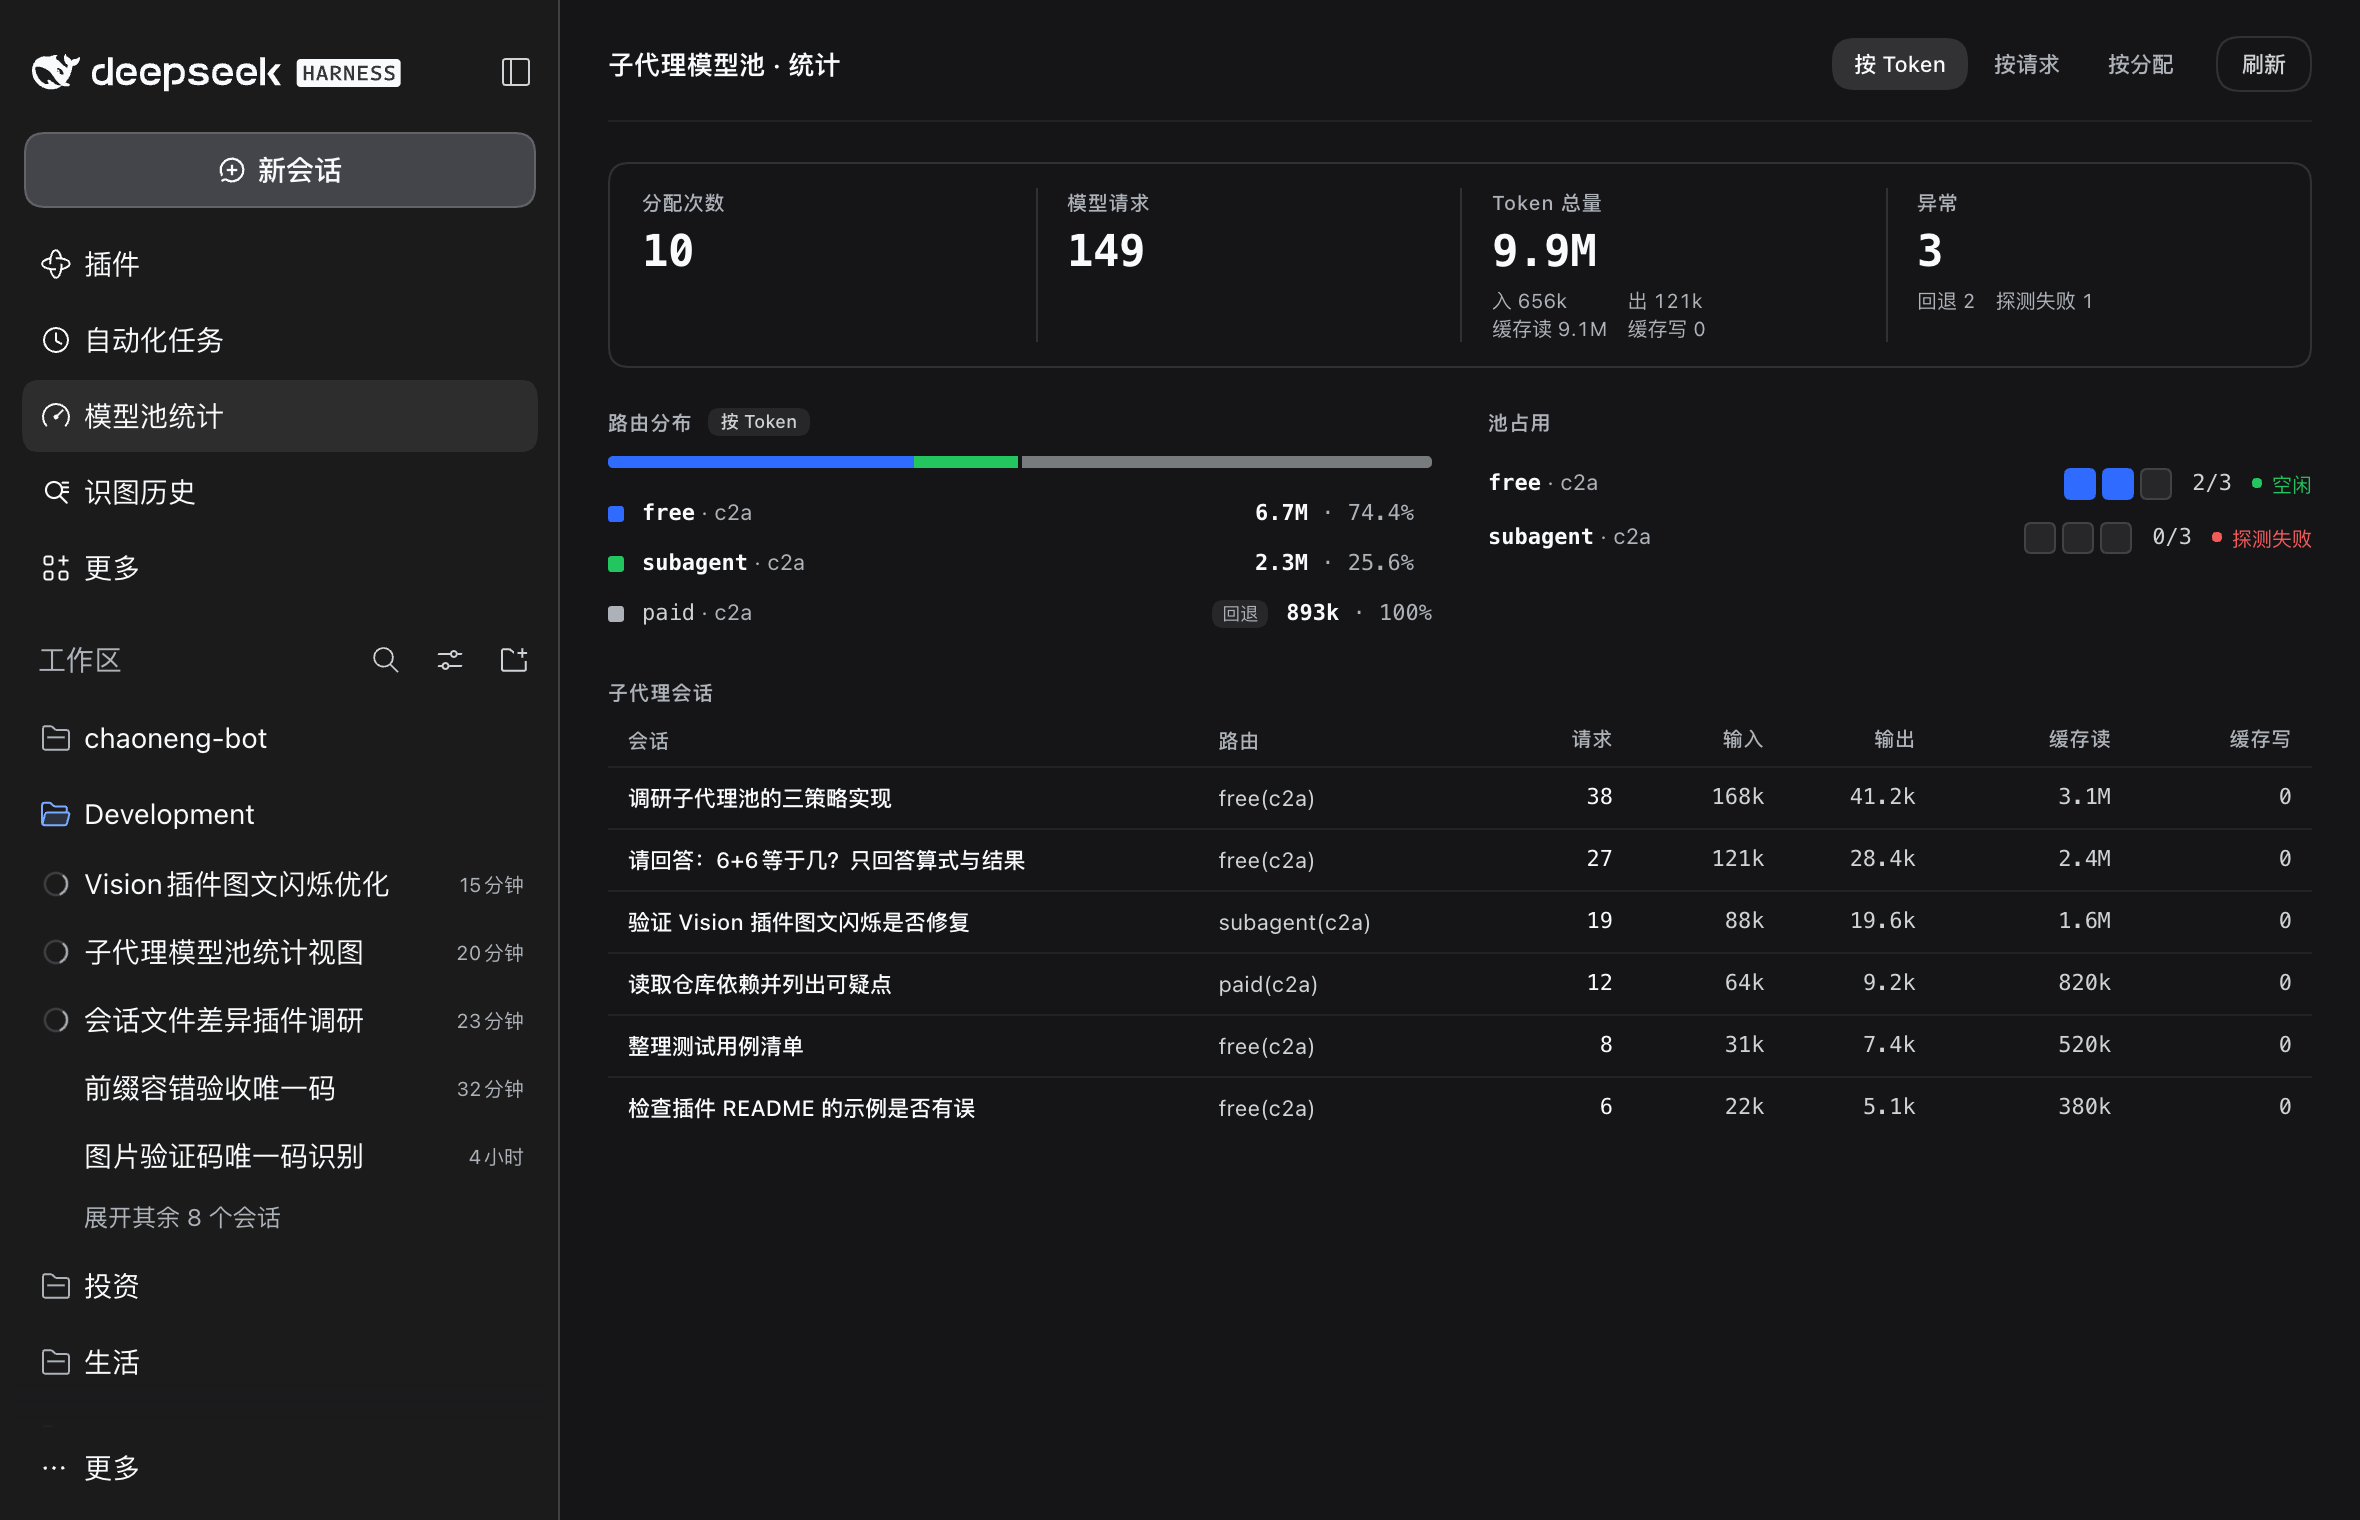
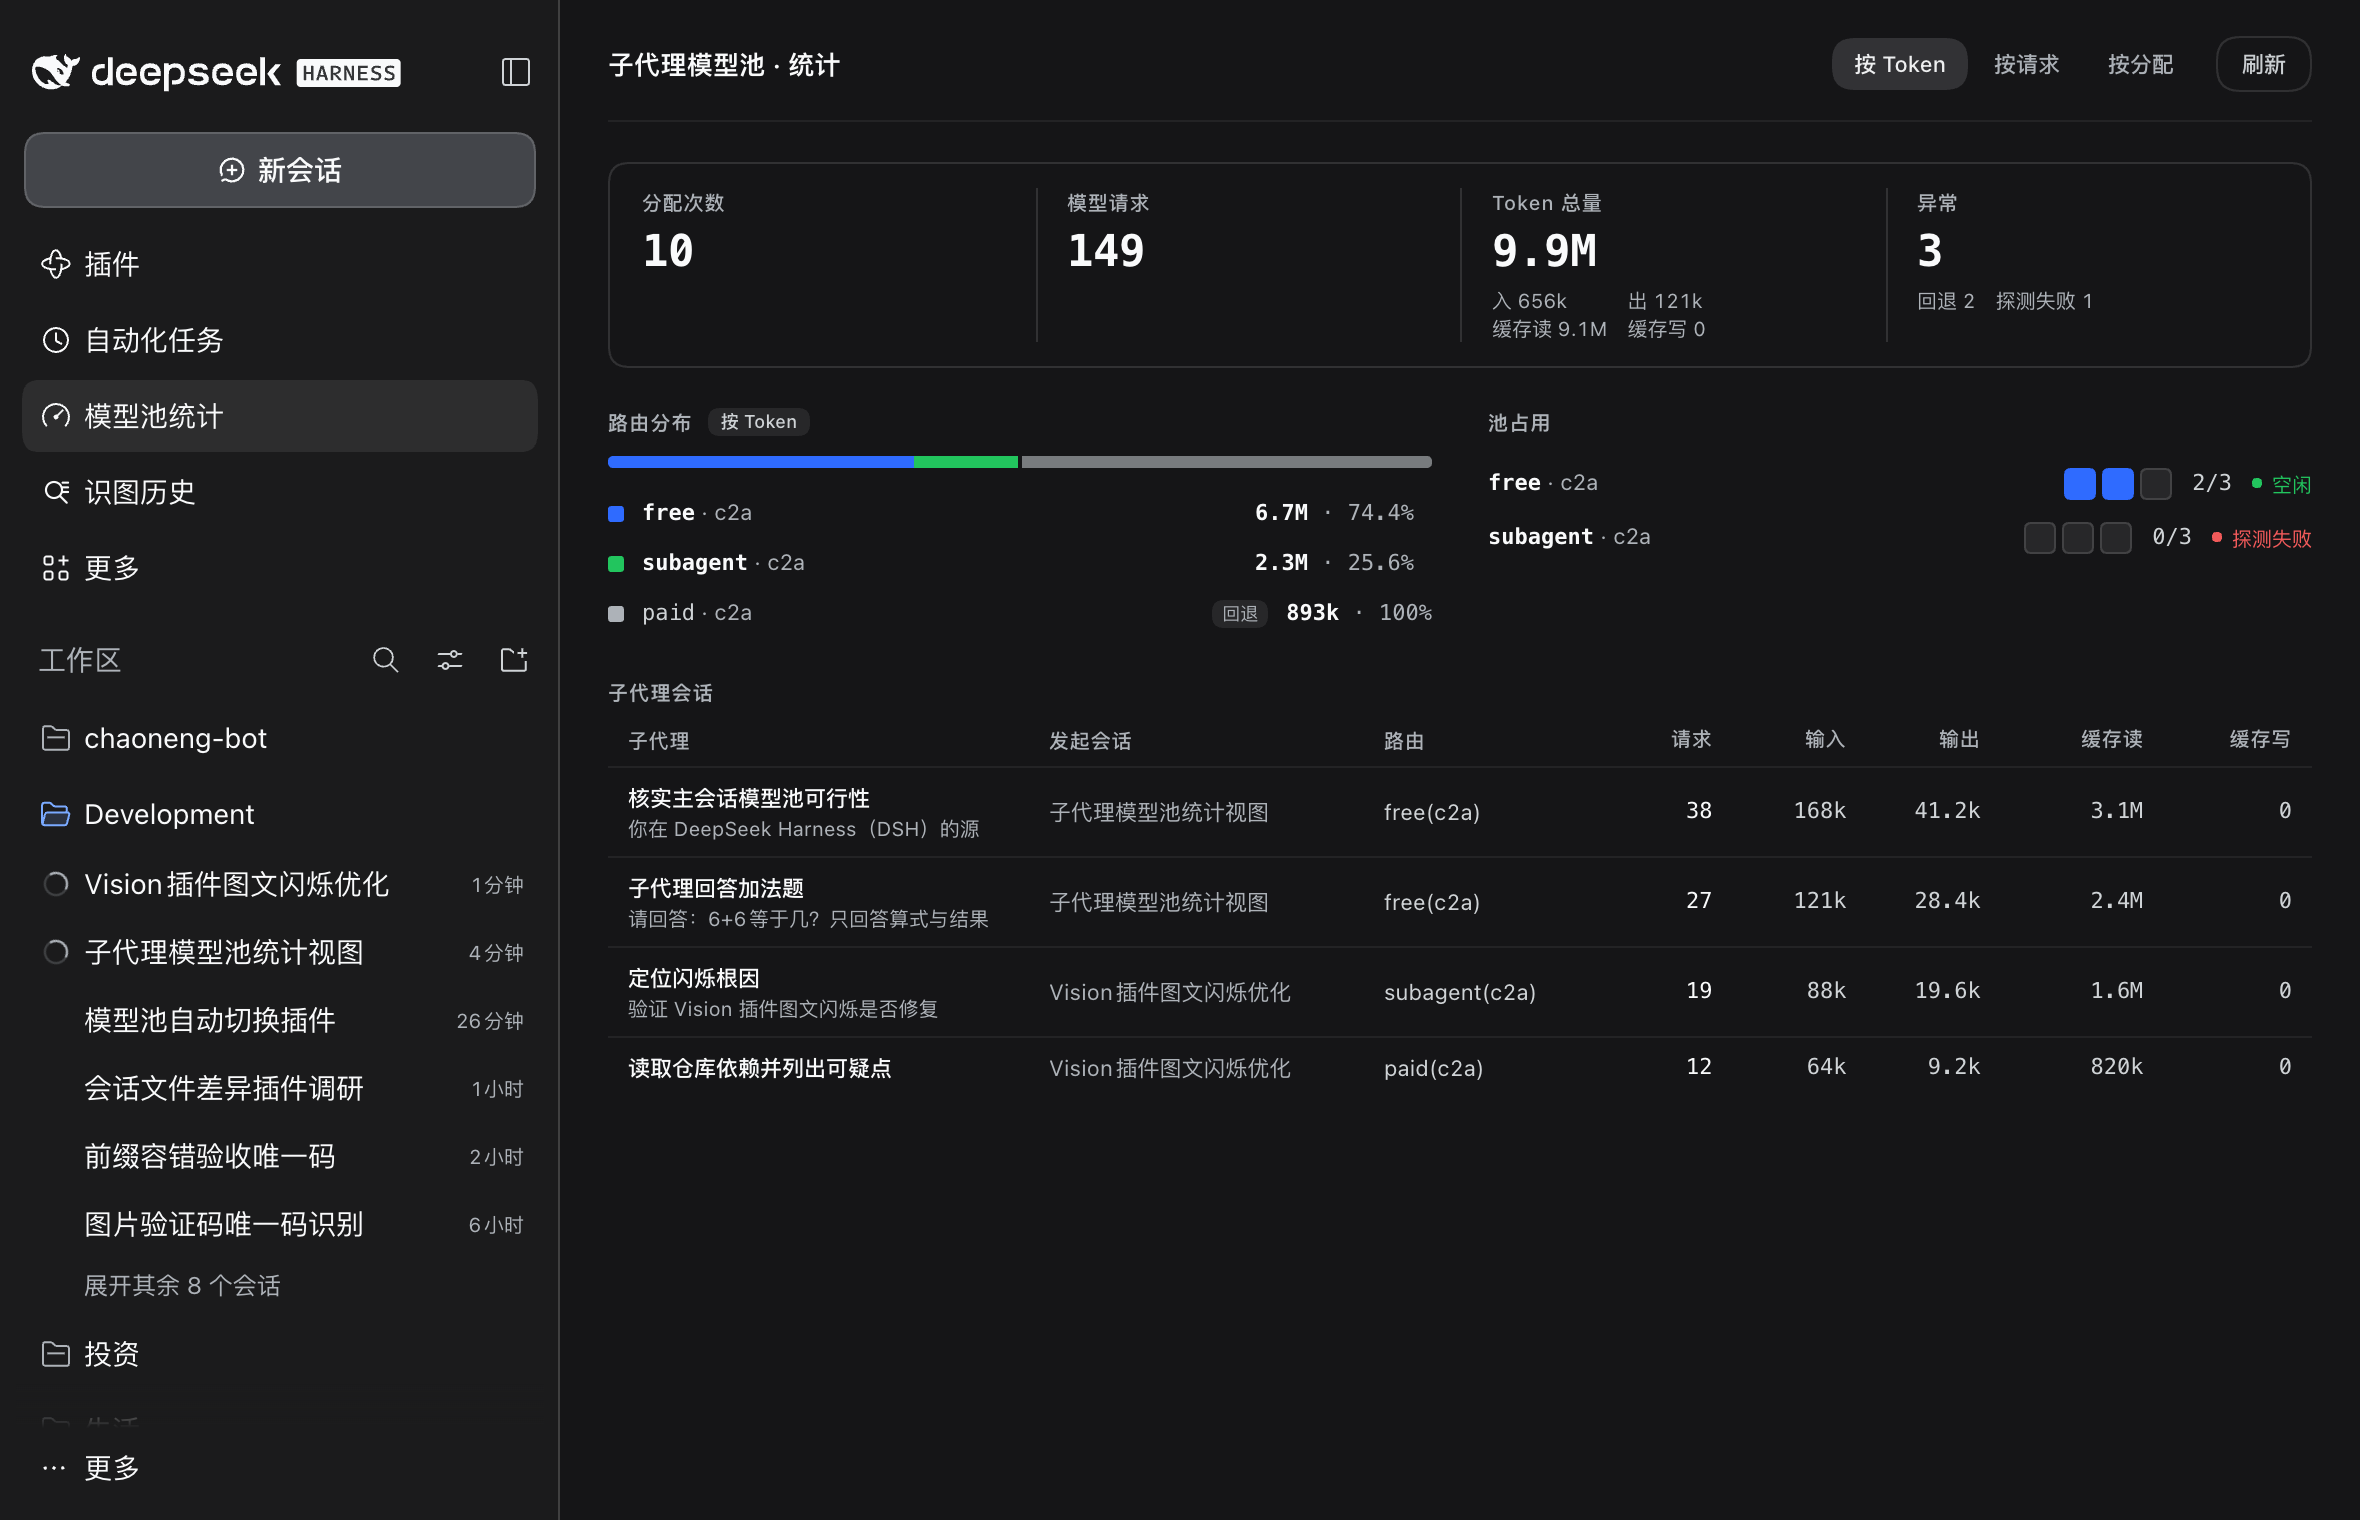
fix: 子代理名字用 subagent/catalog 的 label，不是提示词截断
之前会话列表显示「你在 DeepSeek Harness（DSH）的源」这种残句，
看着像标题其实是任务提示词被截断了。

根因查清楚了，两条：

1) DSH 的子代理永远拿不到 LLM 标题。标题提供方
   `session-title-first-prompt-llm` 的 README 写明「自动生成只对无父会话、
   也无先前标题的全新会话运行」，子代理有 parentSession，所以只能停在
   fallback —— 从首条用户消息取开头 8 词 / 96 字节。实测该会话的
   session/title 事件只有一条且 source.kind="fallback"，没有后续 provider
   覆盖；对照组主会话有两条，第二条 source.kind="provider"（c2a/paid 生成）。

2) 真正该用的名字在 `subagent/catalog` 事件里。父会话派发子代理时记一条：
   {"childId":"2e107042-...","label":"核实主会话模型池可行性"}，label 就是
   调用方调 subagent 时给的 description。DSH 自己的子代理下拉
   （顶部「N 个子智能体」）显示的就是它（dsh-client-ui-subagent 里
   `const label = entry.label ?? entry.id`）。

改动：
- index.js：监听 `subagent/catalog`，把 label 按 childId 记进账本。
- lib/stats.js：新增 #sessionLabels + rememberLabel/labelOfSession，
  快照里输出 `label`。
- client.js：显示名优先级改为 label > title > sessionId；有 label 时
  title 退成副标题（保留提示词上下文），没 label 时不显示副标题。
  组内排序也改用 label ?? title，和表格里看到的一致。表头「子代理会话」→「子代理」。

实测（mock 4 条会话，其中 1 条无 label）：
- 有 label 的显示「核实主会话模型池可行性 / 副标题：你在 DeepSeek Harness
  （DSH）的源」；无 label 的退回 title，不显示副标题。
- 排序：核实 → 子代理回答加法题 → 定位闪烁根因 → 读取仓库依赖（按显示名）。
- 5 个数值列与表头右边缘对齐 maxDiff 全 0；桌面页面 760px 填满不滚动。
- 手机 375×812：副标题 display:block，页面可滚动（scrollH 1415 > clientH 807）。
- 测试 130 项全绿（新增 3 项：label 优先于 title、无 label 时为 undefined、
  空 label/空 childId 不记）。

diff --git a/client.js b/client.js
@@ -879,6 +879,7 @@
         ".smpv-sessionTitle{display:block;overflow:hidden;text-overflow:ellipsis;white-space:nowrap;font-weight:500}",
         // 发起会话：降一档字色——它是上下文，不是主角。
         ".smpv-parentTitle .smpv-sessionTitle{font-weight:400;color:var(--dsw-alias-label-tertiary)}",
+        ".smpv-sessionSub{display:block;overflow:hidden;text-overflow:ellipsis;white-space:nowrap;font-size:10px;line-height:14px;color:var(--dsw-alias-label-tertiary)}",
         ".smpv-num{font-family:var(--dsw-font-mono,ui-monospace,Menlo,monospace);text-align:right;font-size:11px;color:var(--dsw-alias-label-secondary);transition:opacity .14s ease-out}",
         // 请求数是这行最有信息量的数字，给它主字色。
         ".smpv-numLead{color:var(--dsw-alias-label-primary);font-weight:500}",
@@ -1044,9 +1045,10 @@
           var lp = left.parentSessionId === undefined ? "" : String(left.parentSessionId);
           var rp = right.parentSessionId === undefined ? "" : String(right.parentSessionId);
           if (lp !== rp) return lp < rp ? -1 : 1;
-          var lt = left.title === undefined || left.title === null ? "" : String(left.title);
-          var rt = right.title === undefined || right.title === null ? "" : String(right.title);
-          return lt.localeCompare(rt);
+          // 组内按「显示名」排（label 优先），和表格里看到的一致。
+          var lt = left.label ?? left.title ?? "";
+          var rt = right.label ?? right.title ?? "";
+          return String(lt).localeCompare(String(rt));
         });
         return sorted.map(function (session) {
           return { kind: "session", session: session };
@@ -1269,7 +1271,7 @@
                   jsx("thead", {
                     children: jsx("tr", {
                       children: [
-                        jsx("th", { style: { width: "27%" }, children: "子代理会话" }),
+                        jsx("th", { style: { width: "27%" }, children: "子代理" }),
                         // 这一列回答「谁派的」——没有它，列表里一堆子代理看不出归属。
                         jsx("th", { style: { width: "21%" }, children: "发起会话" }),
                         jsx("th", { style: { width: "14%" }, children: "路由" }),
@@ -1287,9 +1289,20 @@
                       var routeText = session.routes.map(function (route) {
                         return route.model + "(" + route.provider + ")";
                       }).join(" ");
-                      var title = session.title !== undefined && session.title !== null
+                      // 名字优先级：子代理 label（父会话派发时给的 description）
+                      // > session.title（子代理只有提示词截断）> sessionId。
+                      var rawTitle = session.label !== undefined && session.label !== null && session.label !== ""
+                        ? session.label
+                        : (session.title !== undefined && session.title !== null
+                          ? session.title
+                          : session.sessionId);
+                      var title = rawTitle;
+                      // 有 label 时，title 退成副标题（提示词截断），保留一点上下文。
+                      var subTitle = session.label !== undefined && session.label !== null
+                        && session.title !== undefined && session.title !== null
+                        && session.title !== session.label
                         ? session.title
-                        : session.sessionId;
+                        : null;
                       // 父会话标题可能还没到（父会话已创建但还没命名），退回 id 前缀。
                       var parentText = session.parentTitle !== undefined && session.parentTitle !== null
                         ? session.parentTitle
@@ -1301,11 +1314,19 @@
                         className: row.kind,
                         children: [
                           jsx("td", {
-                            title: title + " · " + session.sessionId,
-                            children: jsx("span", {
-                              className: "smpv-sessionTitle",
-                              children: title
-                            })
+                            title: [rawTitle, subTitle, session.sessionId].filter(Boolean).join(" · "),
+                            children: [
+                              jsx("span", {
+                                className: "smpv-sessionTitle",
+                                children: rawTitle
+                              }),
+                              subTitle === null
+                                ? null
+                                : jsx("span", {
+                                  className: "smpv-sessionSub",
+                                  children: subTitle
+                                })
+                            ]
                           }),
                           jsx("td", {
                             className: "smpv-parentTitle",

diff --git a/lib/stats.js b/lib/stats.js
@@ -114,6 +114,9 @@ export class PoolStats {
   /** sessionId → 会话标题（`session/title` 事件给的）。 */
   #sessionTitles = new Map();
 
+  /** 子代理会话 id → 名字（父会话的 `subagent/catalog` 事件给的 label）。 */
+  #sessionLabels = new Map();
+
   /** 记住某个会话下一次请求的路由。 */
   rememberRoute(session, provider, model) {
     const sessionId = session?.id ?? session?.header?.id;
@@ -148,6 +151,32 @@ export class PoolStats {
     const sessionId = session?.id ?? session?.header?.id;
     if (sessionId === undefined) return undefined;
     return this.#sessionTitles.get(sessionId);
+  }
+
+  /**
+   * 记住一个子代理会话的名字（`subagent/catalog` 事件的 `label`）。
+   *
+   * 这个值来自调用方调 subagent 时给的 description（「核实主会话模型池可行性」
+   * 这种短描述），由**父会话**记下来。DSH 自己的子代理下拉显示的就是它。
+   *
+   * 为什么不能用 session.title：子代理永远拿不到 LLM 标题——标题提供方
+   * `session-title-first-prompt-llm` 只对「无父会话的全新会话」自动运行，
+   * 子代理有 parentSession，只能停在 fallback（首条用户消息的前 8 词 / 96 字节），
+   * 也就是任务提示词的截断。
+   * @param {string} childId - 子代理会话 id。
+   * @param {string} label - 名字。
+   */
+  rememberLabel(childId, label) {
+    if (typeof childId !== "string" || childId.length === 0) return;
+    if (typeof label !== "string" || label.length === 0) return;
+    this.#sessionLabels.set(childId, label);
+  }
+
+  /** 读某个会话的 label。 */
+  labelOfSession(session) {
+    const sessionId = session?.id ?? session?.header?.id;
+    if (sessionId === undefined) return undefined;
+    return this.#sessionLabels.get(sessionId);
   }
 
   /** 取（或建）一条路由的统计项。 */
@@ -420,6 +449,8 @@ export class PoolStats {
         cwd: detail.cwd,
         isSubagent: detail.isSubagent,
         title: this.#sessionTitles.get(detail.sessionId),
+        // 子代理的名字（父会话派发时给的 description）。优先于 title 显示。
+        label: this.#sessionLabels.get(detail.sessionId),
         // 父会话标题：子代理是被哪个主会话派出去的，列表里得能看出来。
         // 主代理不进账，但它的 title 照样记在 #sessionTitles 里（rememberTitle
         // 对所有会话生效，不受子代理过滤影响）。

diff --git a/index.js b/index.js
@@ -285,6 +285,18 @@ export function apply(ctx, config) {
         stats.rememberTitle(session, event.data?.title);
         return;
       }
+      if (type === "subagent/catalog") {
+        // 子代理的名字：父会话在派发子代理时记下 `label`，值是调用方给的
+        // description（「核实主会话模型池可行性」这种）。DSH 自己的子代理下拉
+        // 显示的就是它，比 session/title 的提示词截断可读得多——而且子代理
+        // 永远拿不到 LLM 标题（标题提供方只对无父会话的会话自动运行）。
+        const label = event.data?.label;
+        const childId = event.data?.childId;
+        if (typeof label === "string" && typeof childId === "string") {
+          stats.rememberLabel(childId, label);
+        }
+        return;
+      }
       if (type === "assistant/message" || type === "assistant/attempt") {
         // 记账前补一次标题：插件挂载前就命名的会话也能显示标题。
         if (titleOfSession !== undefined) {
